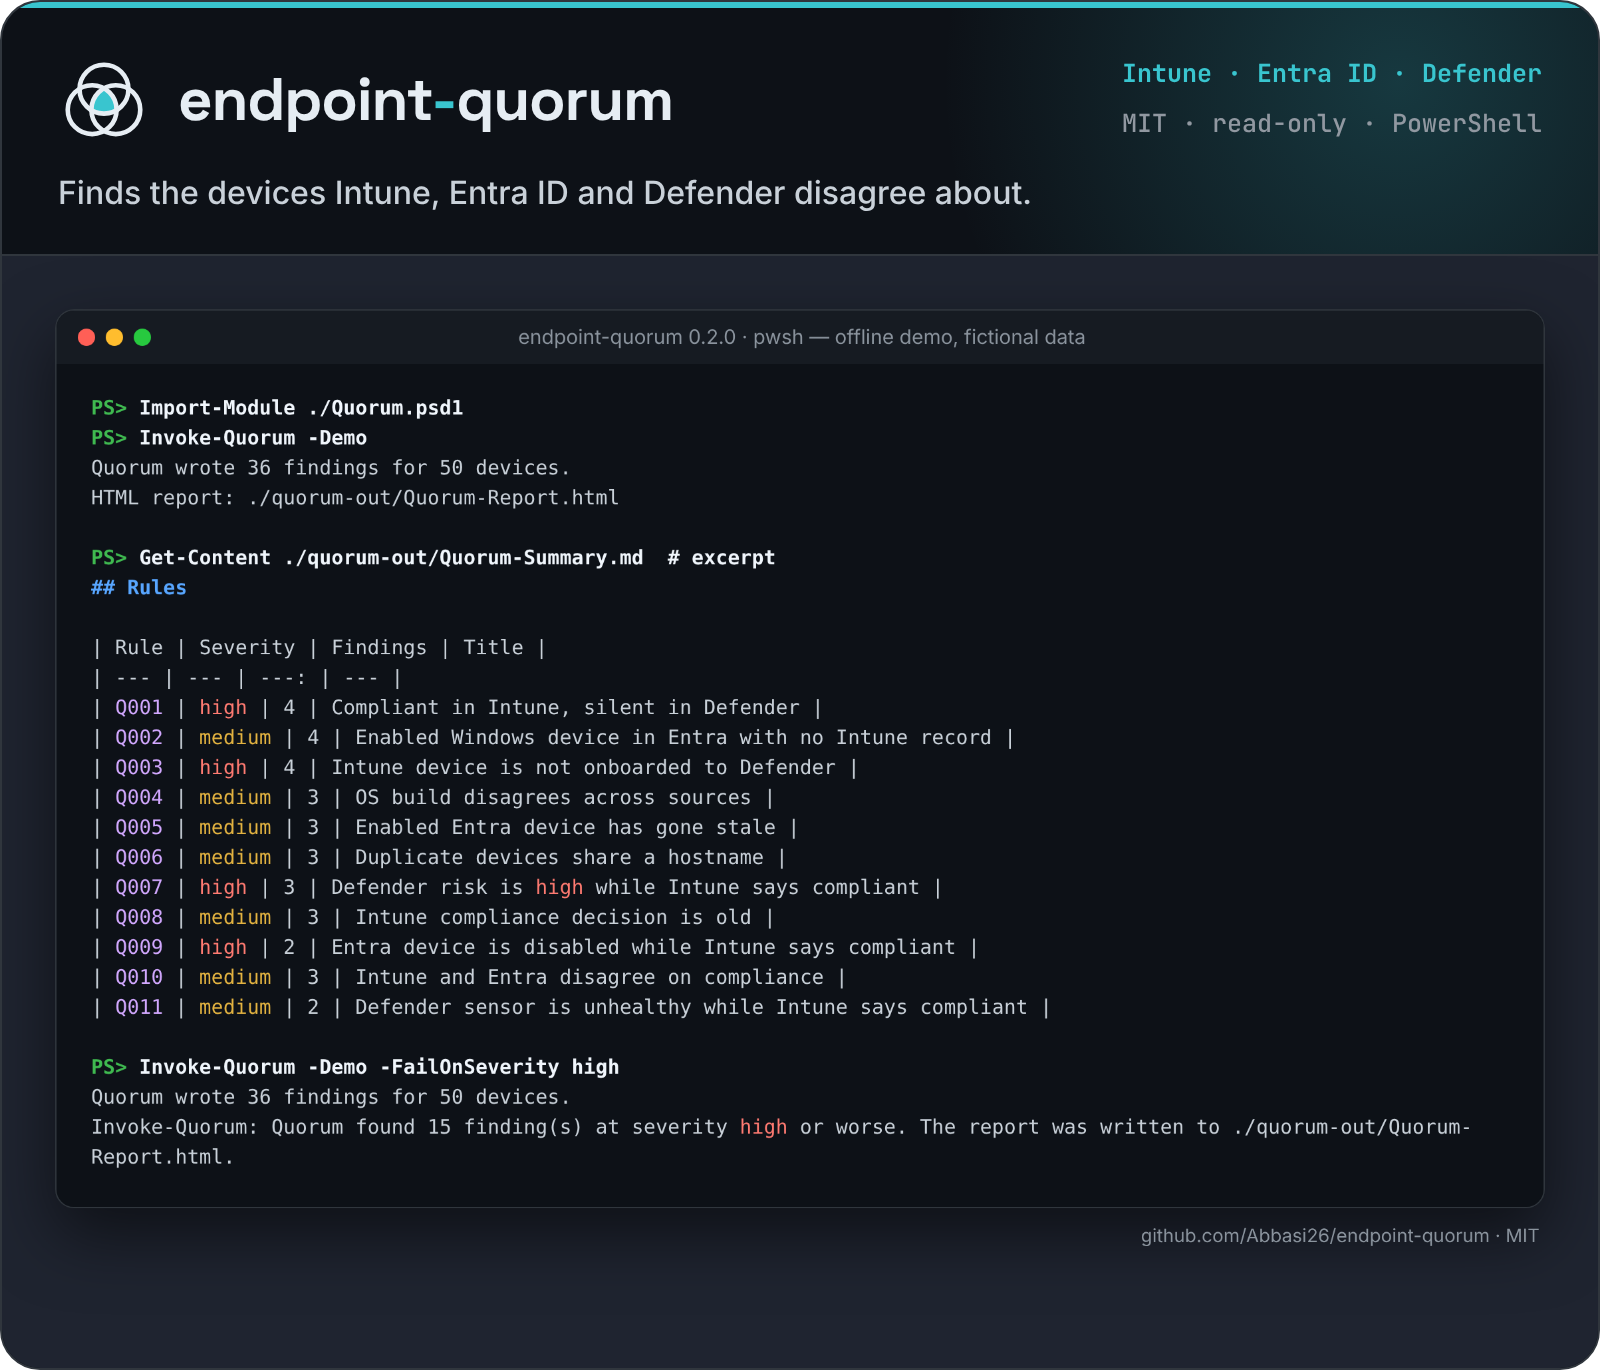
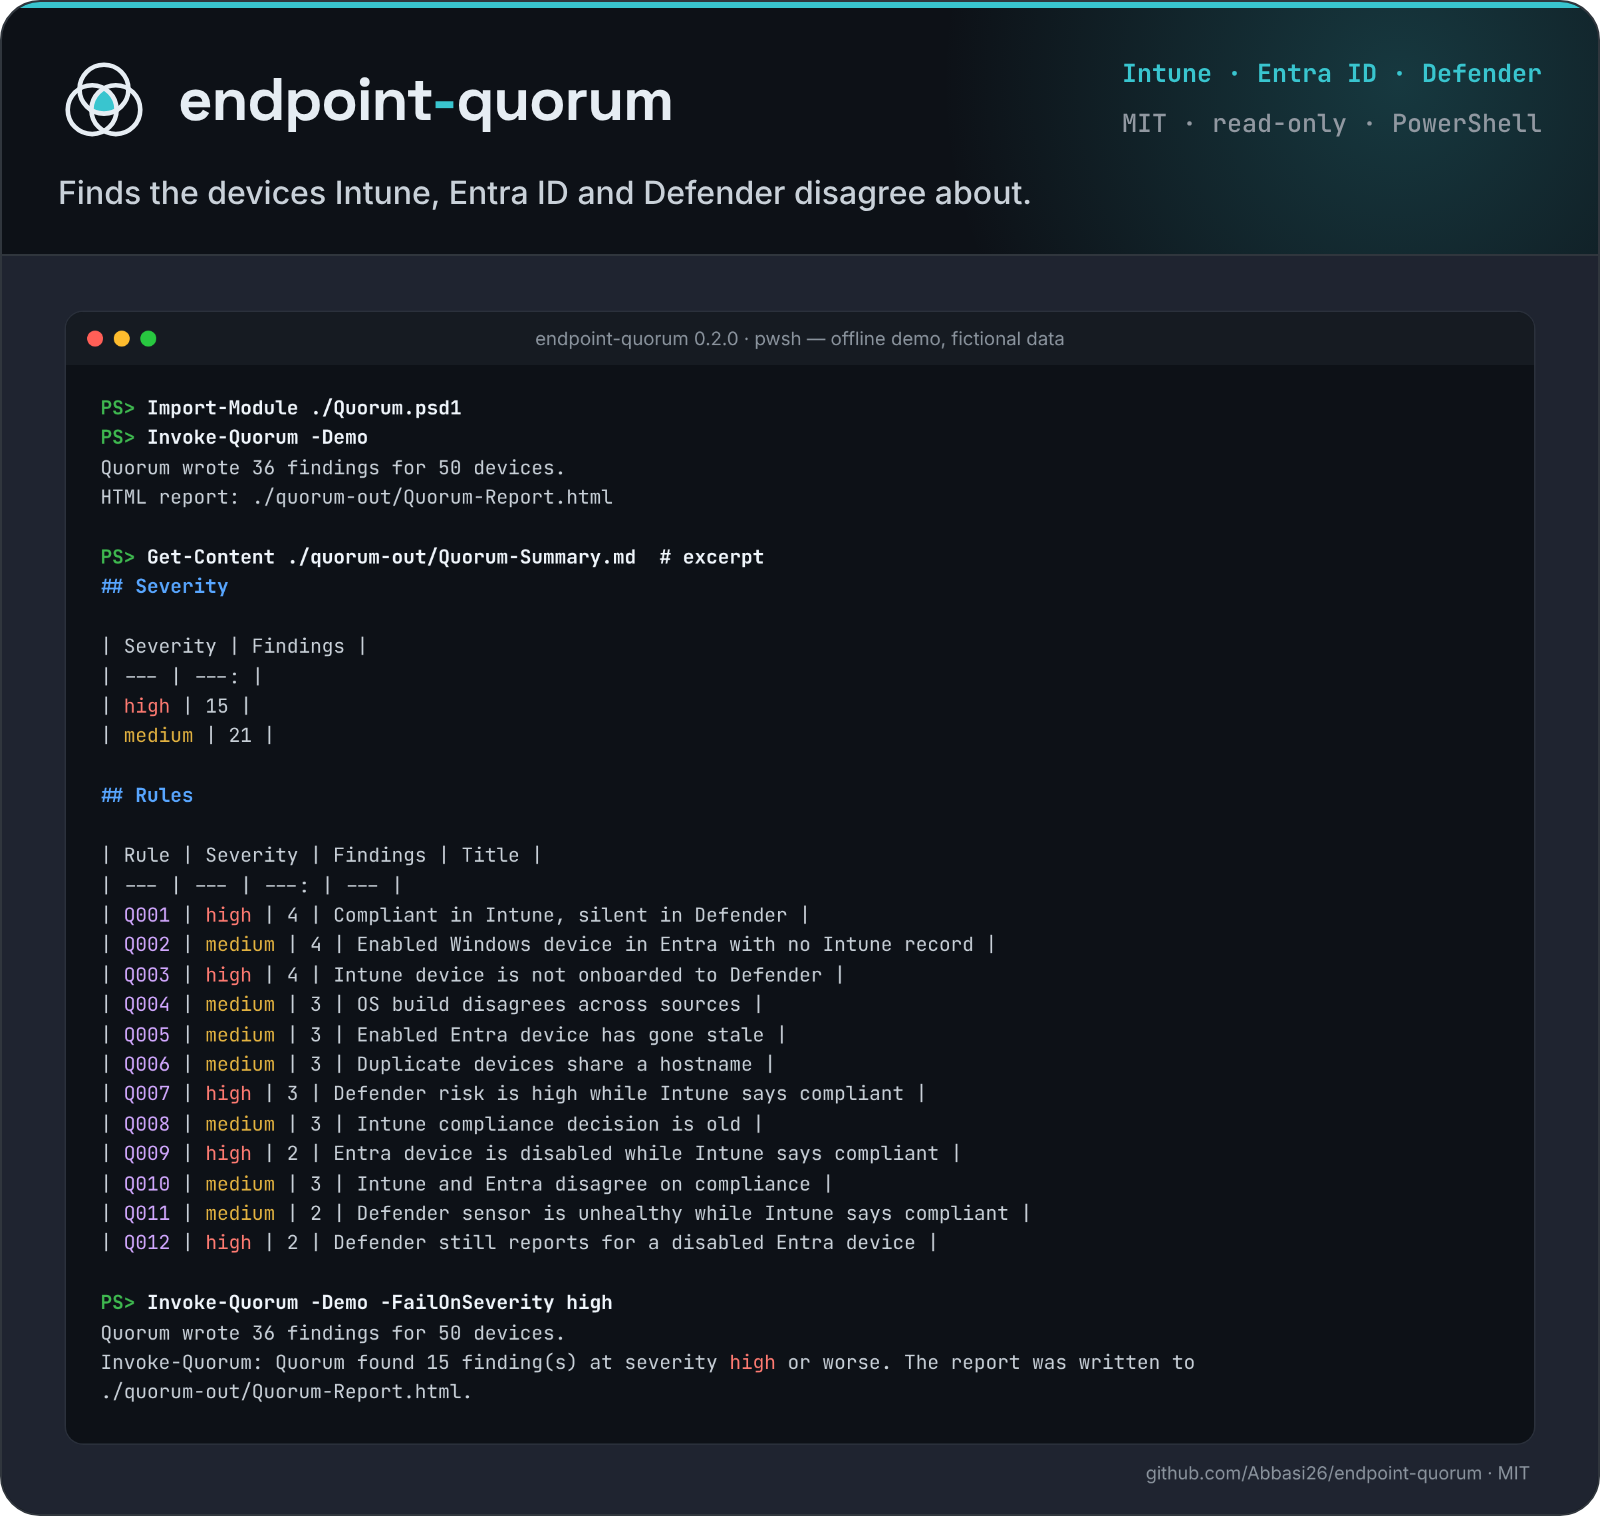
docs: update README header and hero from revised assets
Replaces the hero image, social preview and README header block with the revised design; the original title and the rest of the README are unchanged.

diff --git a/README.md b/README.md
@@ -6,10 +6,10 @@
   </picture>
 </p>
 
-<p align="center">Finds the devices Intune, Entra ID and Defender disagree about.</p>
+<p align="center">Finds the devices Intune, Entra ID and Defender disagree about.</p>
 
 <p align="center">
-  <img src="docs/assets/readme-hero.png" width="800" alt="Terminal output of Invoke-Quorum -Demo: 36 findings for 50 fictional devices, rules Q001 to Q011 with severity, and a -FailOnSeverity high gate.">
+  <img src="docs/assets/readme-hero.png" width="800" alt="Terminal output of Invoke-Quorum -Demo: 36 findings for 50 fictional devices, 15 high and 21 medium, rules Q001 to Q012 with severity and count, and a -FailOnSeverity high gate reporting 15 high findings.">
 </p>
 
 # Quorum
